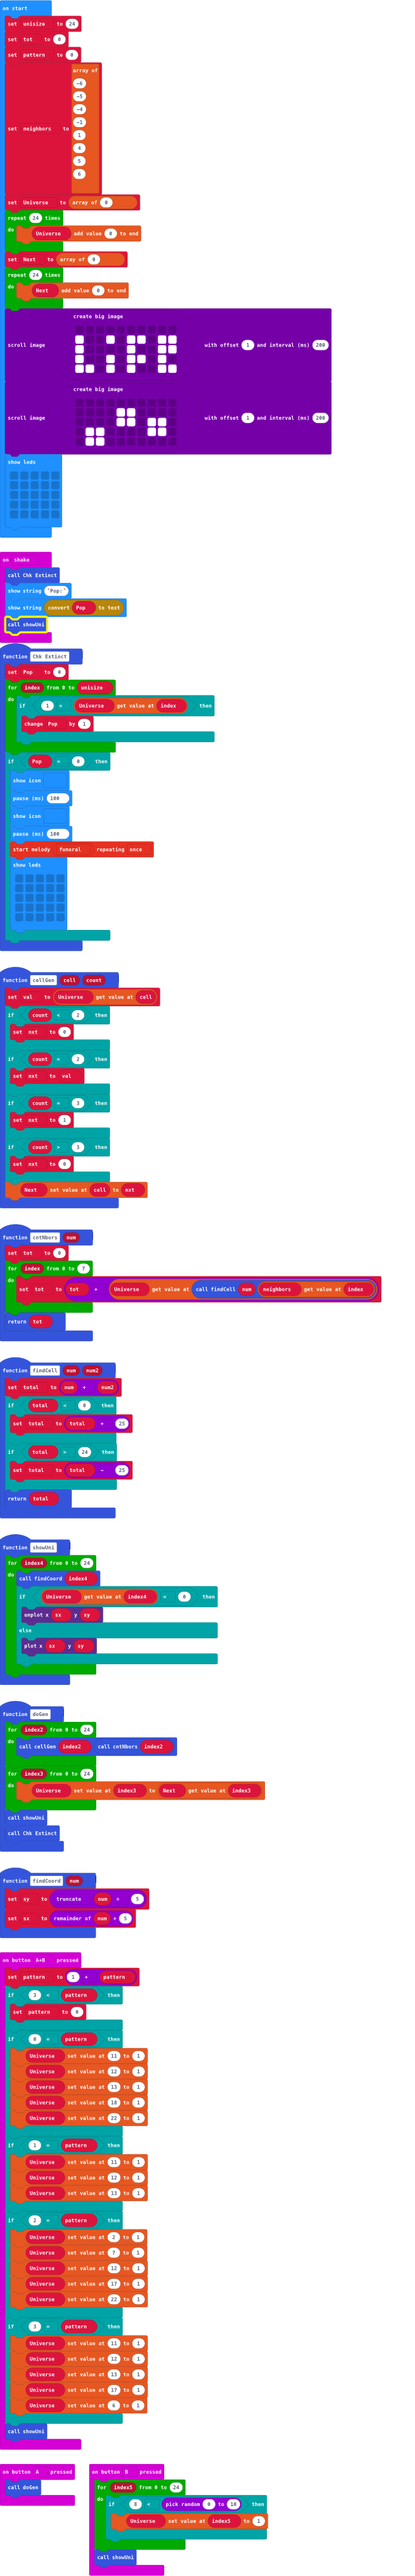
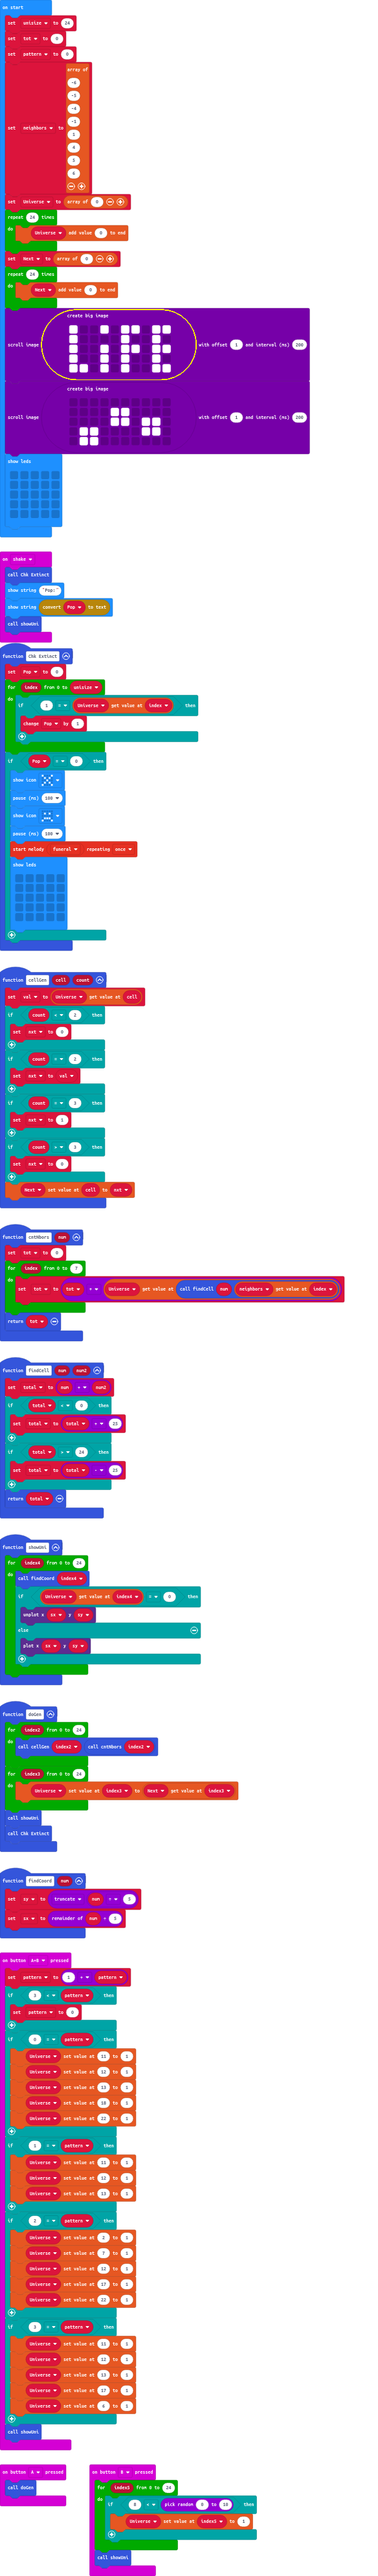
Update main.blocks, main.ts

diff --git a/main.ts b/main.ts
@@ -152,10 +152,10 @@ for (let index = 0; index < 24; index++) {
     Next.push(0)
 }
 images.createBigImage(`
-    . . . . . . . . . .
     # . . # . # # . # #
-    # . . . . # . . # #
-    # . . # . # # . # .
+    # . . . . # . . # .
+    # . . # . # # . # #
+    # . . # . # . . # .
     # # . # . # . . # #
     `).scrollImage(1, 200)
 images.createBigImage(`
